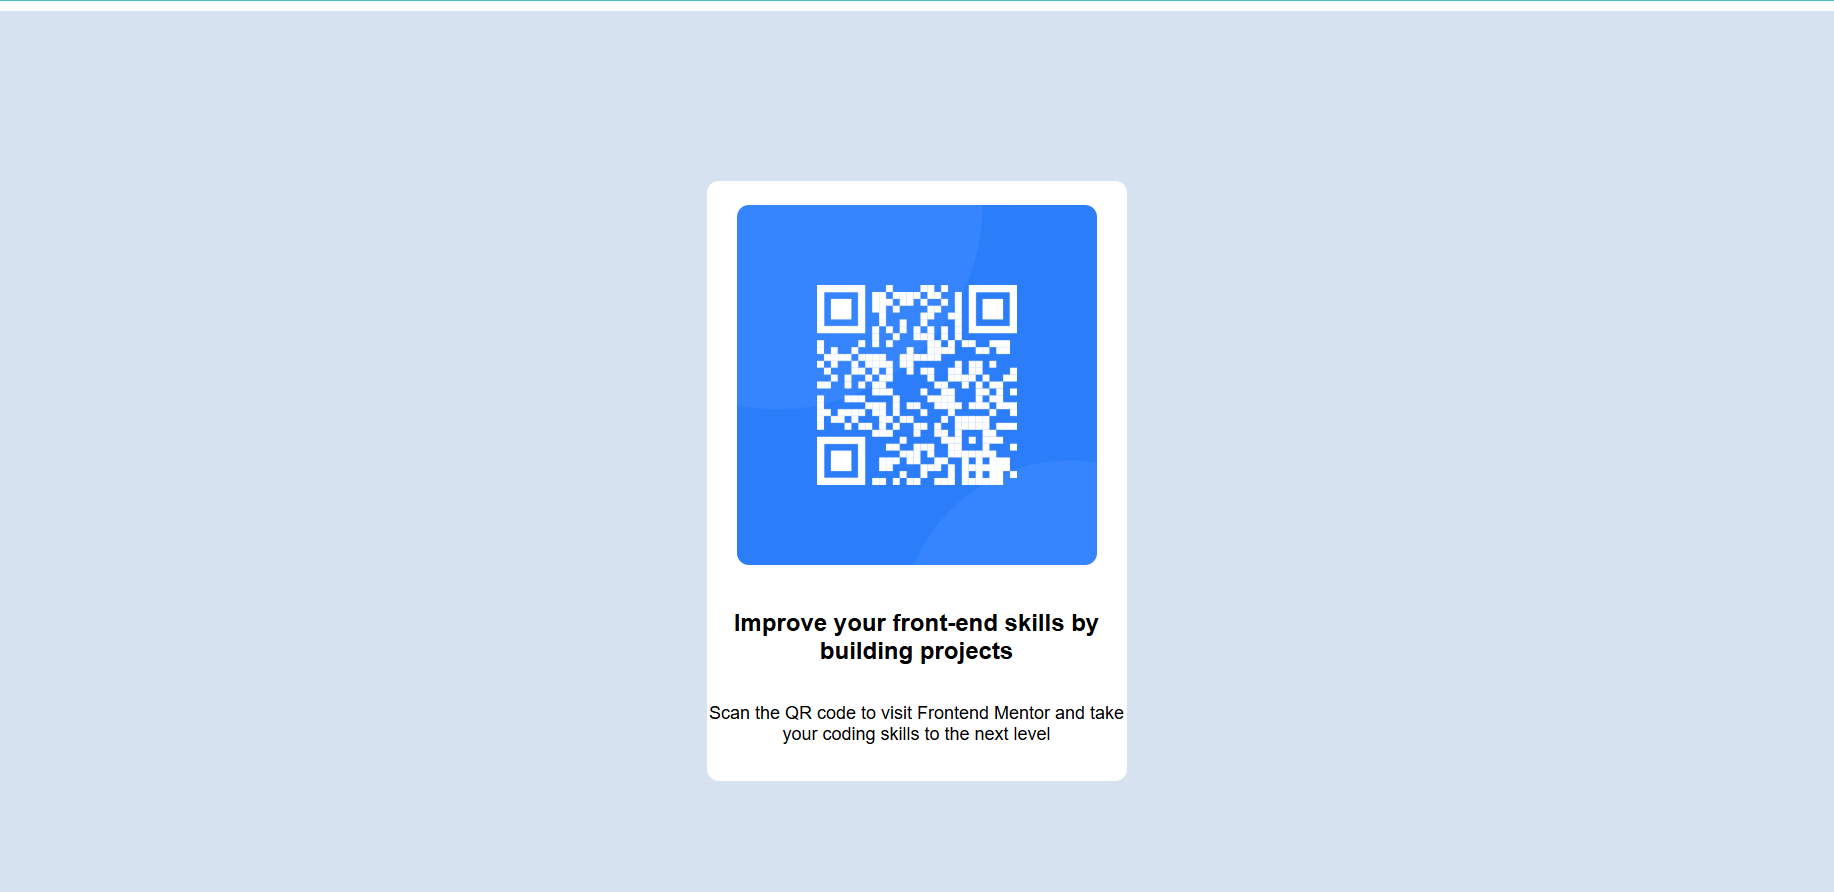
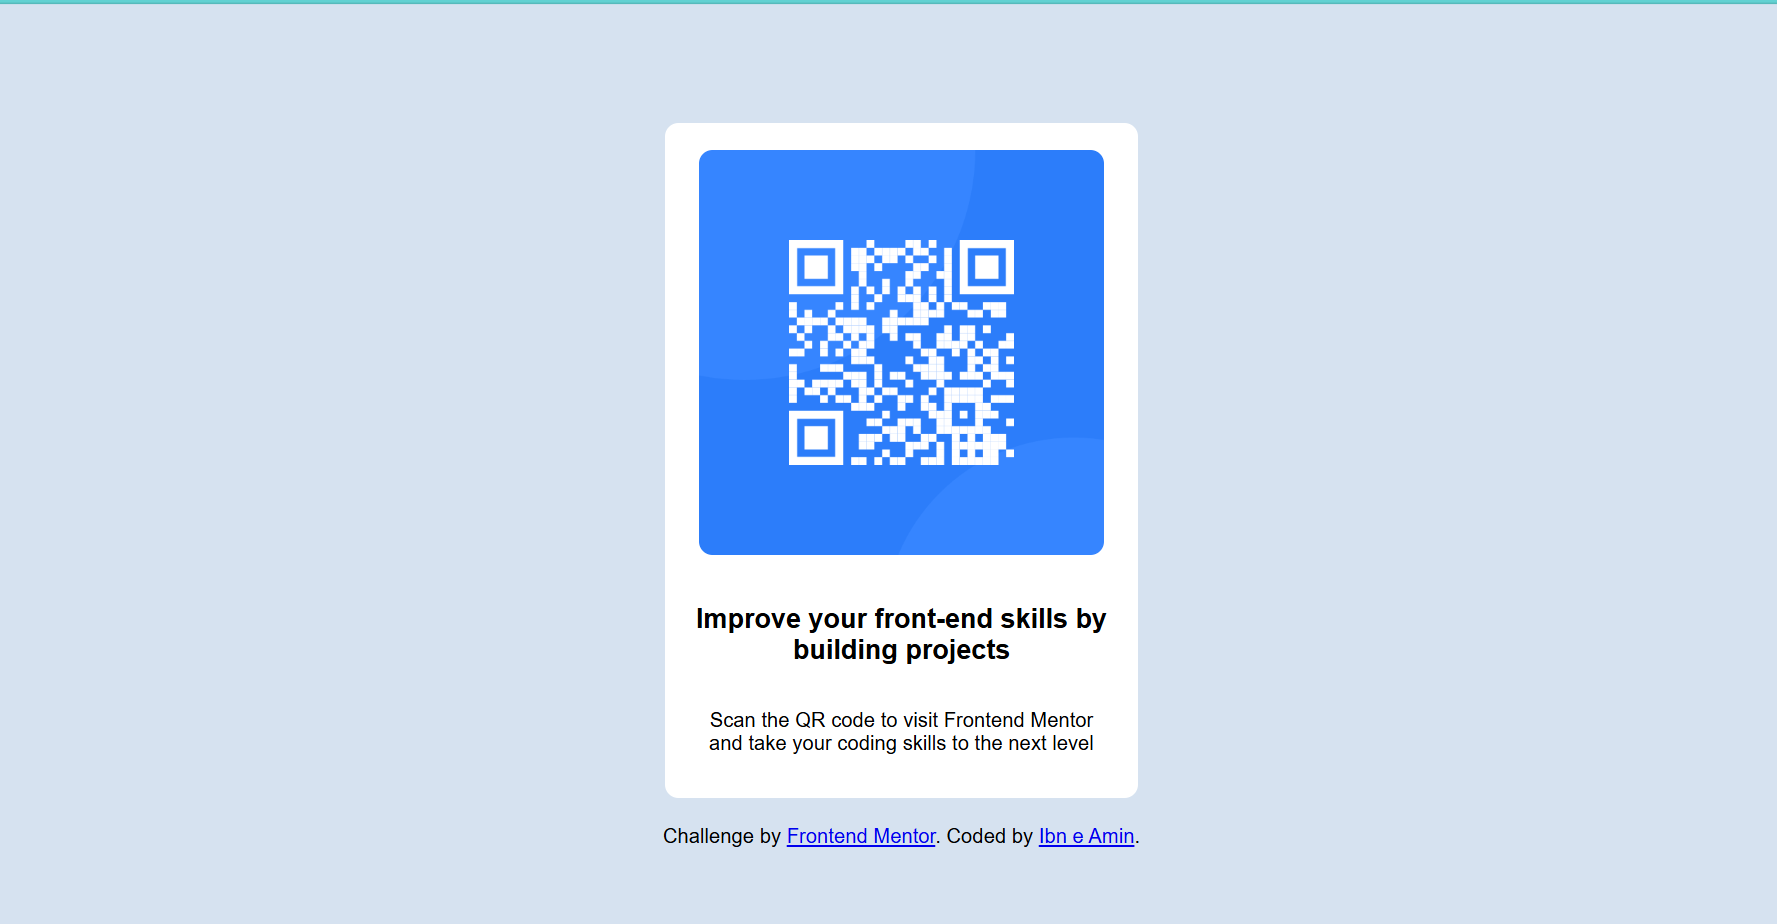
docs: update README with project details
Fill placeholders, add usage instructions and author info.

Changed region(s): [[0.3714, 0.1211, 0.65, 0.9383], [0.0, 0.0, 1.0, 0.0303]]

diff --git a/index.html b/index.html
@@ -16,13 +16,13 @@
 
     <!-- Feel free to remove these styles or customise in your own stylesheet 👍 -->
     <style>
-      .container {
-        width: 1440px;
-        height: 90vh;
+      body{
         background-color: hsl(212, 45%, 89%);
         display: flex;
+        flex-direction: column;
         justify-content: center;
         align-items: center;
+        min-height: 100vh;
       }
       .card {
         width: 350px;
@@ -52,18 +52,21 @@
         font-size: 15px;
         text-align: center;
         font-family: "Outfit", sans-serif;
+        padding: 0px 20px;
       }
       .attribution {
         font-size: 11px;
         text-align: center;
       }
-      .attribution a {
-        color: hsl(228, 45%, 44%);
+      .attribution{
+           margin-top: 20px;
+           font-family: "Outfit", sans-serif;
+           font-size: 15px;
       }
     </style>
   </head>
   <body>
-    <div class="container">
+
       <div class="card">
         <img src="./images/image-qr-code.png" alt="QR code" class="qr-code" />
         <h2>Improve your front-end skills by building projects</h2>
@@ -73,7 +76,6 @@
           to the next level
         </p>
       </div>
-    </div>
 
     <footer class="attribution">
       Challenge by

diff --git a/README.md b/README.md
@@ -1,1 +1,82 @@
-# QR-Code-Card
+
+
+# QR Code Card
+
+A small, responsive QR code card component built with semantic HTML and CSS. This project demonstrates a simple, accessible card layout suitable for practicing layout, spacing, and responsive design.
+
+## Overview
+
+### Screenshot
+
+![Preview of the QR card](image.png)
+
+### Links
+
+- Solution URL: https://your-solution-url.com (https://github.com/IBN-E-AMIN-KHAN/QR-Code-Card)
+- Live Site URL: https://your-live-site-url.com (https://ibn-e-amin-khan.github.io/QR-Code-Card/)
+
+## My process
+
+This project was built by reading a brief design and implementing a single-screen component. The goal was to use semantic HTML and modern CSS (Flexbox, CSS variables) to create a centered card that adapts to small screens.
+
+### Built with
+
+- Semantic HTML5 markup
+- CSS custom properties (variables)
+- Flexbox for layout
+
+### What I learned
+
+- How to center a card both vertically and horizontally using Flexbox
+- Using CSS custom properties to manage colors and spacing
+- Structuring a small project with semantic elements for accessibility
+
+### Continued development
+
+- Add keyboard focus styles and improve accessibility (ARIA where appropriate)
+- Generate the QR image dynamically with a small JavaScript helper
+- Add responsive typography and tests for layout regressions
+
+### Useful resources
+
+- Frontend Mentor — great for practice projects and community feedback: https://www.frontendmentor.io/
+- MDN Web Docs — Flexbox guide and accessibility references: https://developer.mozilla.org/
+
+### AI Collaboration
+
+- Tools used: GitHub Copilot (optional)
+- How: Assisted with small snippets and wording for documentation; main layout and styling were implemented by hand.
+- Notes: AI helped speed up boilerplate, but key decisions (accessibility and structure) were manual.
+
+## How to run
+
+1. Clone or download the repository.
+2. Open `index.html` in your browser, or run a simple local server from the project root:
+   - Python 3: `python -m http.server 8000`
+   - Node (http-server): `npx http-server . -p 8000`
+3. Visit `http://localhost:8000` to view the demo.
+
+## Project structure
+
+- `index.html` — Demo page showing the QR code card
+- `image.png` / `preview.jpg` — Example images used in the demo
+- `style-guide.md` — Design tokens and style notes
+- `design/` — Design files and assets
+- `images/` — Additional assets
+- `AGENTS.md`, `CLAUDE.md` — Project notes and assistant configs
+
+## Customization
+
+- Replace `image.png` with your own QR image to point to different content.
+- Update CSS variables in `style-guide.md` or the main stylesheet to change colors and spacing.
+
+## Author
+
+Ibn e Amin Khan
+
+## Acknowledgments
+
+Thanks to Frontend Mentor for the challenge and to resources like MDN for learning references.
+
+---
+
